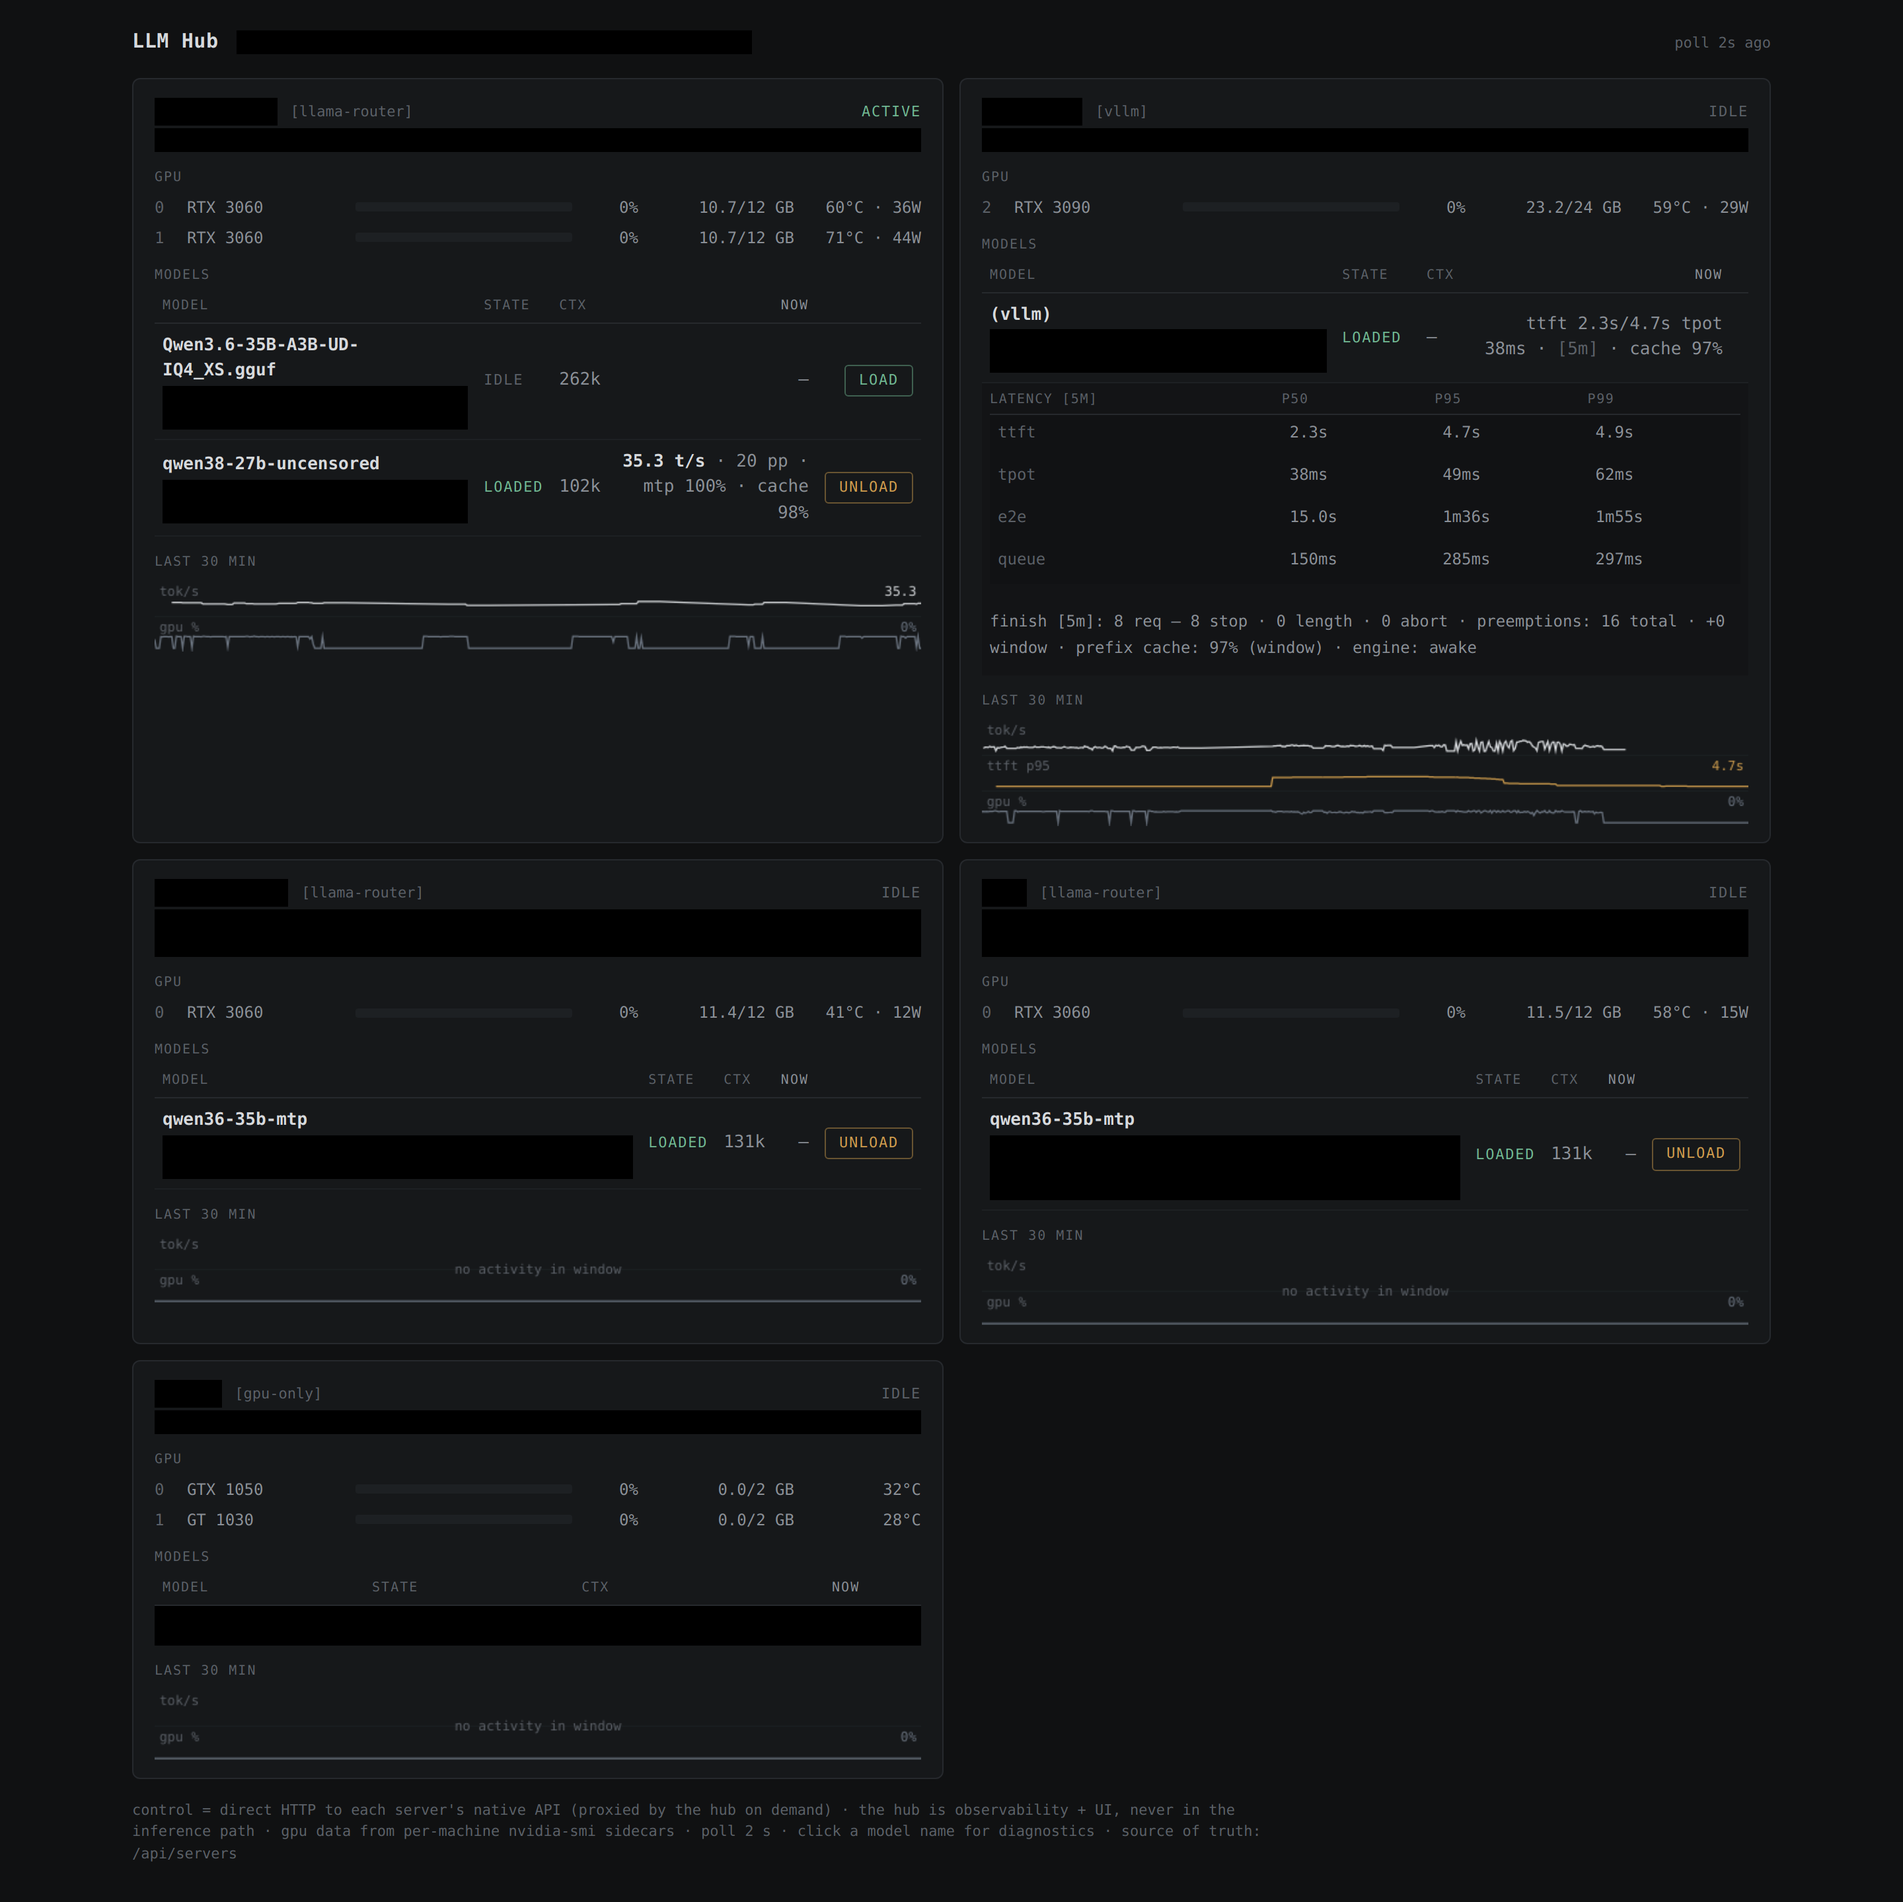
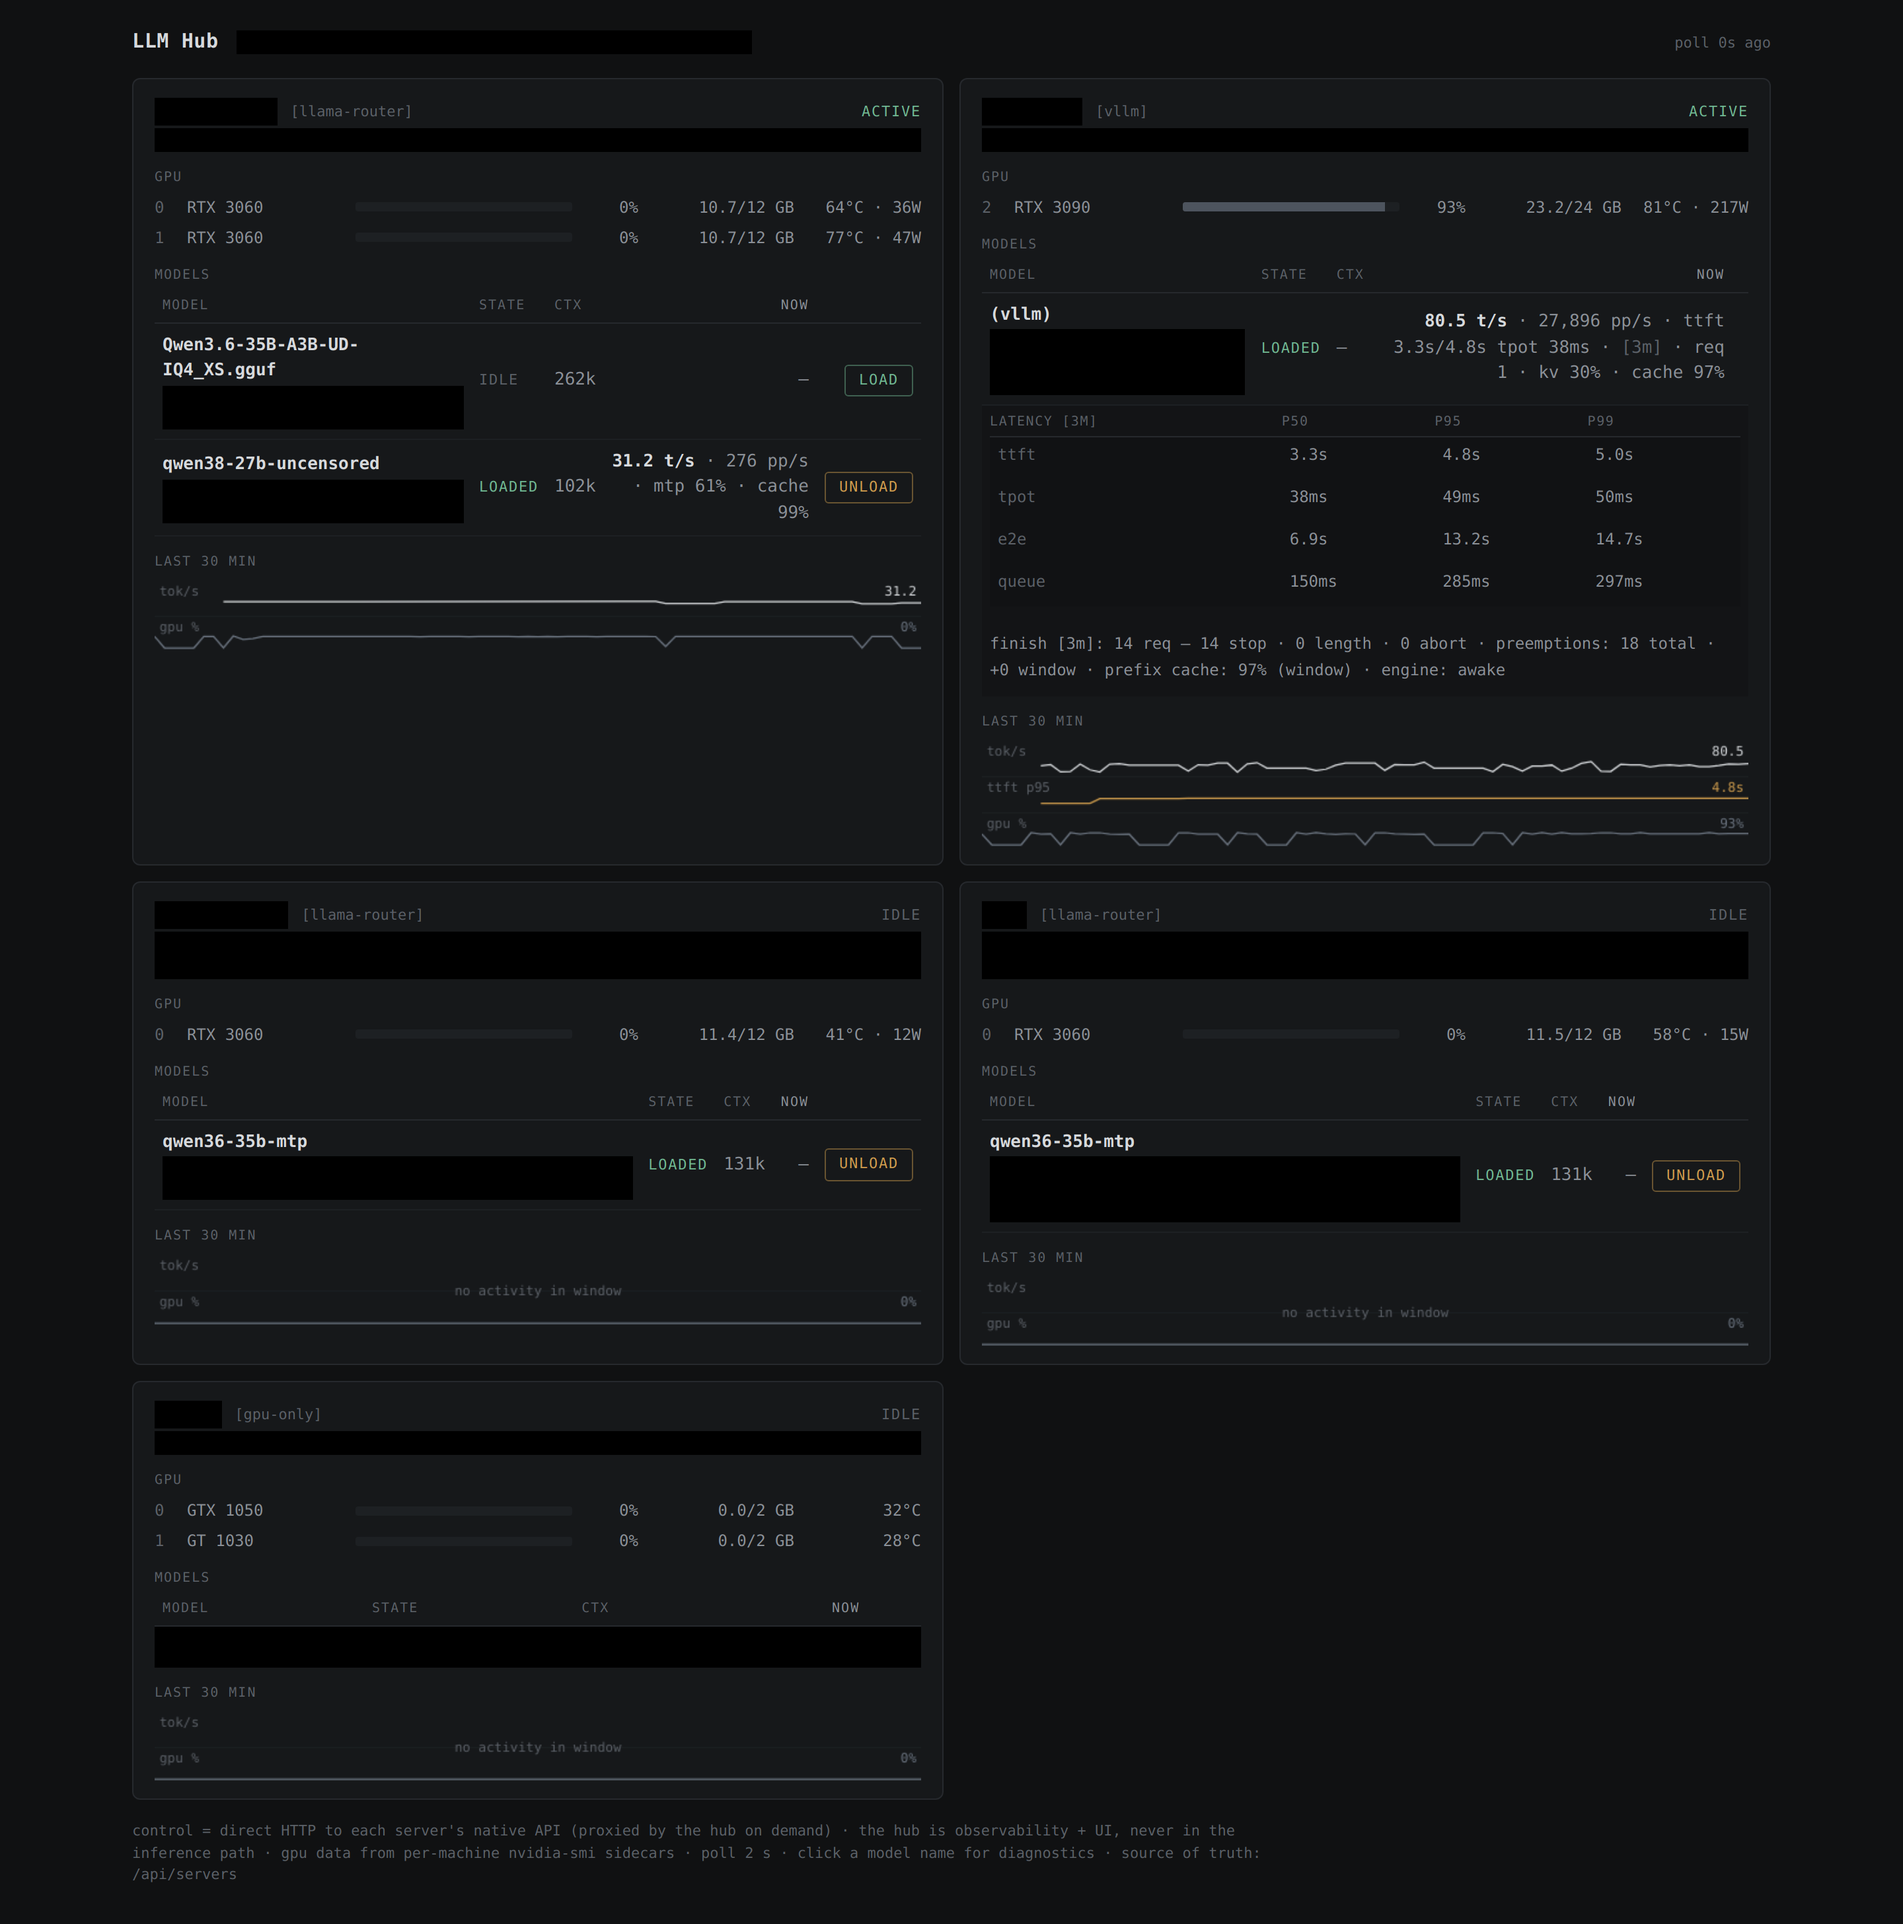
hub: README wording + refreshed screenshots
- CSRF wording: SameSite=Lax blocks ordinary cross-site POSTs; the hub
  stays a trusted-network deployment
- cookie: HttpOnly + SameSite=Lax + optional Secure (LLM_HUB_COOKIE_SECURE)
- compatibility: llama.cpp server builds tested in September 2026
- terminology: generation (t/s) and prompt-processing (pp/s) throughput
  spelled out in features, metric semantics, and the Prometheus section
- new focused overview crop (two live node cards) near the top; fleet,
  diagnostics, and mobile shots retaken with the pp/s labels

diff --git a/hub/README.md b/hub/README.md
@@ -28,6 +28,8 @@ monitoring and control are unavailable. Model load/unload commands are
 proxied through the hub on demand — the same native router API a client
 could call directly.
 
+![LLM Hub showing two inference nodes: per-GPU utilization/VRAM/temperature/power rows, model load state, and live generation and prompt-processing throughput.](screenshots/llm-hub-overview-crop.png)
+
 ## Quick start
 
 ```sh
@@ -46,13 +48,13 @@ For the systemd layout, see [Deploy](#deploy).
 
 Per server, every 2 s:
 
-- **llama.cpp routers**: generation and prompt throughput,
-  speculative-decoding (MTP) acceptance, prompt-cache hit rate (5-min
-  window), in-flight and deferred requests, busy decode slots, and model
-  load state.
-- **vLLM**: throughput, rolling p50/p95/p99 percentiles for TTFT, TPOT,
-  E2E and queue time, queue and KV-cache state, prefix-cache hit rate,
-  preemptions, engine state, and finish reasons.
+- **llama.cpp routers**: generation throughput (t/s) and
+  prompt-processing throughput (pp/s), speculative-decoding (MTP)
+  acceptance, prompt-cache hit rate (5-min window), in-flight and deferred
+  requests, busy decode slots, and model load state.
+- **vLLM**: generation and prompt-processing throughput, rolling p50/p95/p99
+  percentiles for TTFT, TPOT, E2E and queue time, queue and KV-cache state,
+  prefix-cache hit rate, preemptions, engine state, and finish reasons.
 - **GPU telemetry**: per-card utilization, VRAM, temperature, and power,
   from the per-host sidecar.
 
@@ -75,11 +77,15 @@ States are derived per model (node state is the worst across its models):
 
 ### Metric semantics
 
-- **Generation rate** is computed against the child process's own
-  generation clock (`Δtokens_predicted / Δtokens_predicted_seconds`), so it
-  is physically bounded and immune to poll-gap artifacts.
+- **Throughput rates** (generation and prompt-processing) come from counter
+  deltas. On llama.cpp the generation rate is measured against the child
+  process's own generation clock (`Δtokens_predicted /
+  Δtokens_predicted_seconds`), so it is physically bounded and immune to
+  poll-gap artifacts; vLLM counters are process-lifetime cumulative, so
+  wall-clock deltas are used.
 - Rates decay to "no data" 30 s after the counter **last moved** — idle is
-  shown as no value, not as a stale number.
+  shown as no value, not as a stale number. This applies to every rate,
+  including vLLM prompt throughput.
 - A counter **decrease** (child restart / model reload) re-baselines
   instead of producing a spike.
 - **vLLM percentiles** are interpolated from the engine's native histogram
@@ -87,8 +93,9 @@ States are derived per model (node state is the worst across its models):
   process-lifetime cumulative values. Resolution is bounded by the engine's
   bucket edges. llama.cpp has no equivalent latency histograms; that is a
   vLLM-only capability.
-- Idle/unknown values are `null` in the API and `NaN` in `/metrics` —
-  never `0`, which must mean "measured, zero".
+- Unknown values are `null` in the API and **omitted** in `/metrics` (not
+  `NaN`, which would poison PromQL aggregates; not `0`, which must mean
+  "measured, zero").
 
 ## API
 
@@ -132,7 +139,7 @@ $ curl -H "Authorization: Bearer $TOKEN" http://hub:8443/api/models
 
 - **Agents/CLI**: master Bearer token (one file, `chmod 600`).
 - **Browser**: exchanges the master token once via `POST /auth` for an
-  HMAC-signed `HttpOnly` session cookie (7-day sliding). The UI shell is
+  HMAC-signed `HttpOnly` session cookie (7 days). The UI shell is
   public; data requires auth. The page itself never contains the token.
 
 ## Security
@@ -144,11 +151,13 @@ $ curl -H "Authorization: Bearer $TOKEN" http://hub:8443/api/models
   designed for direct Internet exposure.
 - The session cookie is HMAC-signed with the master token: anyone who
   obtains the token file can mint valid cookies. Rotate by replacing the
-  token file and restarting.
-- No CSRF token: state-changing endpoints accept `Authorization: Bearer` or
-  the `HttpOnly` session cookie (SameSite=Lax), which covers the
-  same-origin UI and agent usage. A cross-origin form post is the classic
-  residual gap if you expose the hub publicly.
+  token file and restarting. The cookie is `HttpOnly; SameSite=Lax`; set
+  `LLM_HUB_COOKIE_SECURE=1` when the hub sits behind an HTTPS reverse proxy
+  (off by default so plain-HTTP local testing works).
+- No separate CSRF token is used. The browser session cookie is
+  `SameSite=Lax`, which prevents it from being sent with ordinary cross-site
+  POST requests. The hub is still intended for trusted-network deployment
+  rather than direct Internet exposure.
 - `/metrics` and `/health` are public by design — topology-level data
   (names, rates, GPU counters), no prompts or payloads. If that's too much
   for your network, put the hub behind an auth proxy.
@@ -197,6 +206,7 @@ available.
 | `LLM_HUB_STATE` | `/var/lib/llm-hub` |
 | `LLM_HUB_UI` | `/opt/llm-hub/ui` |
 | `LLM_HUB_LAT_WINDOW` | `300` (percentile window seconds) |
+| `LLM_HUB_COOKIE_SECURE` | off (`1`/`true` adds `Secure` to the session cookie) |
 
 ## Deploy
 
@@ -219,9 +229,11 @@ The hub is unprivileged; put TLS in front (reverse proxy) if you expose it.
 ## Prometheus export
 
 `/metrics` emits `hub_*` gauges: server online state, per-GPU
-utilization/memory/temperature/power, per-model tokens/s, vLLM latency
-percentiles (seconds), request counts, KV usage, cache hit rates,
-preemptions, and engine sleep state. Idle/unknown values are `NaN`, not `0`.
+utilization/memory/temperature/power, per-model generation and
+prompt-processing throughput, vLLM latency percentiles (seconds), request
+counts, KV usage, cache hit rates, preemptions, and engine sleep state.
+Unknown values are omitted rather than exported as `NaN` (which would poison
+`avg()`/`sum()` in PromQL); a measured zero is exported as `0`.
 This is the stable scrape surface for a Grafana stack — a separate concern;
 the hub does not require Prometheus.
 
@@ -236,8 +248,8 @@ long-term trends, scrape `/metrics`.
 
 Currently tested with:
 
-- recent llama.cpp server builds (per-model `/metrics?model=`, OpenAI-style
-  `/v1/models` catalog)
+- llama.cpp server builds tested in September 2026 (per-model
+  `/metrics?model=`, OpenAI-style `/v1/models` catalog)
 - vLLM 0.27.x
 - NVIDIA GPUs via `nvidia-smi` (any architecture; older "Pascal"-era
   cards that report power as `[N/A]` are tolerated)
@@ -260,6 +272,9 @@ instead of silently reading zero.
   vLLM-only feature.
 - The UI is a single page with a full 2 s refresh — built for a few dozen
   nodes, not hundreds.
+- Polling is a single shared loop: a stalled backend (4 s fetch timeout)
+  delays the other servers by up to one fetch per configured model per
+  cycle.
 - No TLS of its own; `/metrics` and `/health` are unauthenticated
   (topology-level data only).
 - It is a monitoring/control layer for your own fleet, not a
